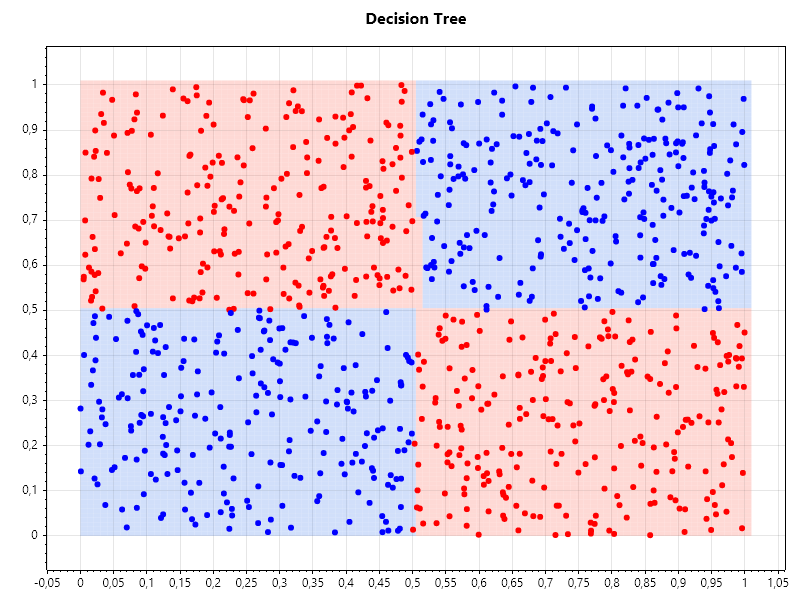
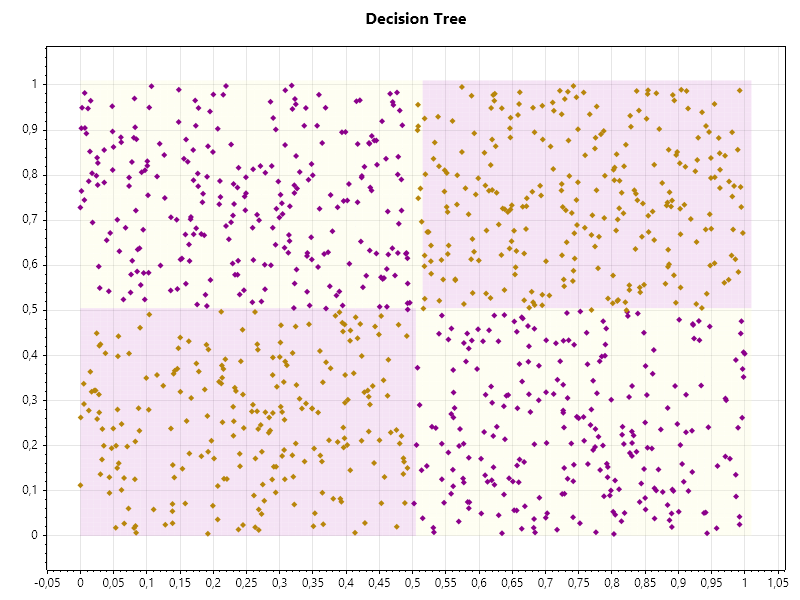
lab 3 tuning

diff --git a/Lab 3/Scripts/Logic/Common/PlotHelper.cs b/Lab 3/Scripts/Logic/Common/PlotHelper.cs
@@ -73,15 +73,15 @@ internal class PlotHelper
     private void AddClusterScatterPlot(Plot plt, double[] xValues, double[] yValues, int clusterIndex)
     {
         var scatter = plt.Add.Scatter(xValues, yValues);
-        scatter.LegendText = $"Кластер {clusterIndex}";
+        scatter.LegendText = $"Cluster {clusterIndex}";
         scatter.LineWidth = 0;
 
         scatter.Color = clusterIndex switch
         {
-            0 => Colors.Blue,
-            1 => Colors.Green,
-            2 => Colors.Orange,
-            _ => Colors.Purple
+            0 => Colors.RebeccaPurple,
+            1 => Colors.Olive,
+            2 => Colors.FireBrick,
+            _ => Colors.GoldenRod
         };
     }
 
@@ -103,10 +103,10 @@ internal class PlotHelper
     private void AddCentroidsScatterPlot(Plot plt, double[] centerX, double[] centerY)
     {
         var centroids = plt.Add.Scatter(centerX, centerY);
-        centroids.MarkerShape = MarkerShape.Cross;
+        centroids.MarkerShape = MarkerShape.Asterisk;
         centroids.MarkerSize = 10;
-        centroids.Color = Colors.Red;
-        centroids.LegendText = "Центроиды";
+        centroids.Color = Colors.LightCoral;
+        centroids.LegendText = "Centroids";
         centroids.LineWidth = 0;
     }
 
@@ -157,7 +157,7 @@ internal class PlotHelper
                 new[] { yy[i, j], yy[i, j], yy[i, j] + 1.0f / gridSize, yy[i, j] + 1.0f / gridSize }
             );
             rect.FillStyle.Color =
-                prediction > 0.5 ? Colors.CornflowerBlue.WithAlpha(0.3) : Colors.Salmon.WithAlpha(0.3);
+                prediction > 0.5 ? Colors.Plum.WithAlpha(0.3) : Colors.LightGoldenRodYellow.WithAlpha(0.3);
             rect.LineWidth = 0;
         }
     }
@@ -170,8 +170,8 @@ internal class PlotHelper
             var y = samples[i, 1];
             var label = labels[i];
 
-            var marker = plt.Add.Marker(x, y, MarkerShape.FilledCircle, 6);
-            marker.Color = label == 1 ? Colors.Blue : Colors.Red;
+            var marker = plt.Add.Marker(x, y, MarkerShape.FilledDiamond, 6);
+            marker.Color = label == 1 ? Colors.DarkGoldenRod : Colors.DarkMagenta;
             marker.LineWidth = 0;
         }
     }

diff --git a/Lab 3/Scripts/Logic/UnsupervisedLearning/KMeansRunner.cs b/Lab 3/Scripts/Logic/UnsupervisedLearning/KMeansRunner.cs
@@ -20,7 +20,7 @@ internal class KMeansRunner : IRunner
         Mat dataMat = ConvertToMat(_data);
         var (labels, centers) = PerformKMeansClustering(dataMat, NumberOfClusters);
         
-        _plotHelper.VisualizeClusters(_data, labels, centers, "KMeans");
+        _plotHelper.VisualizeClusters(_data, labels, centers, "K-Means Clustering");
     }
 
     private Mat ConvertToMat(float[,] data)

diff --git a/Lab 3/Scripts/Logic/SupervisedLearning/ClusterDataGenerator.cs b/Lab 3/Scripts/Logic/SupervisedLearning/ClusterDataGenerator.cs
@@ -7,7 +7,7 @@ internal class ClusterDataGenerator
     private const int FeatureDimension = 2;
     private const int TotalSamples = 2000;
     private const int TrainingSamples = 1000;
-    private const int Seed = 2323;
+    private const int Seed = 1234;
     private readonly Random _random = new(Seed);
 
     public ClusterData GenerateClusterData()

diff --git a/Lab 3/Scripts/EntryPoint.cs b/Lab 3/Scripts/EntryPoint.cs
@@ -146,7 +146,7 @@ internal abstract class EntryPoint
 
     private static void PrepareDataset(string fileName)
     {
-        var numberOfPoints = 150;
+        var numberOfPoints = 123;
         var datasetGenerator = new DatasetGenerator();
         datasetGenerator.GenerateRandomDataset(fileName, numberOfPoints);
     }

diff --git a/Lab 3/Scripts/Logic/UnsupervisedLearning/DatasetGenerator.cs b/Lab 3/Scripts/Logic/UnsupervisedLearning/DatasetGenerator.cs
@@ -5,7 +5,7 @@ namespace Lab3;
 
 internal class DatasetGenerator
 {
-    private const int Seed = 42;
+    private const int Seed = 66;
     private readonly Random _random = new(Seed);
 
     public void GenerateRandomDataset(string filename, int numberOfPoints)
